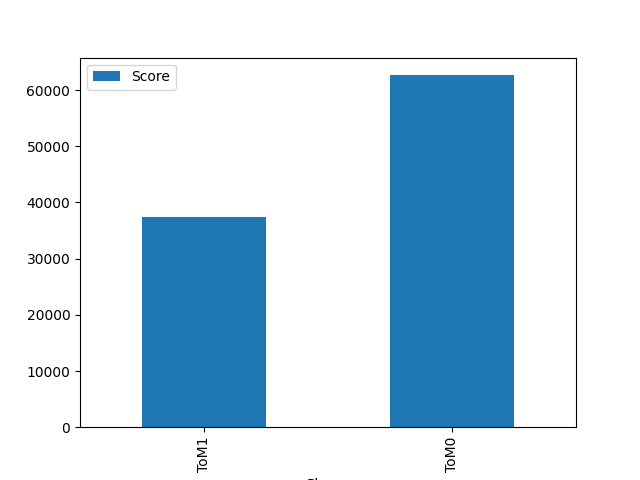
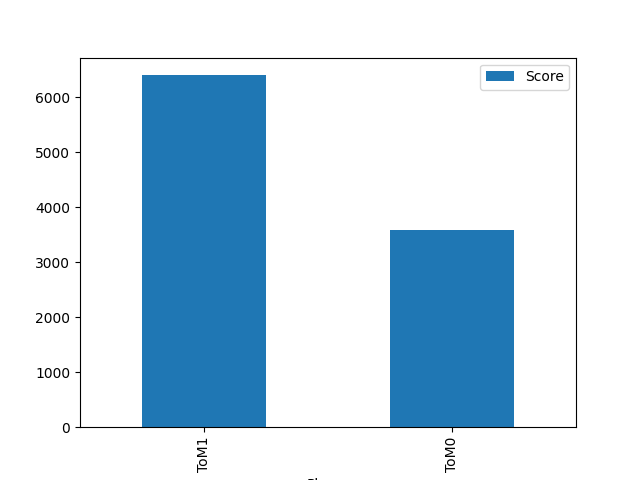
added interpretative tom

diff --git a/src/player.py b/src/player.py
@@ -2,13 +2,20 @@ import random
 from typing import List, Tuple
 from .game import Dice, Bid
 
+
 class Player:
     """Represents a player in the game. This is the base class for all players."""
+
     def __init__(self, name: str, num_dice: int):
         self.name = name
         self.num_dice = num_dice
         self.dice = Dice(num_dice)
         self.current_bid = None
+        self.players = []
+
+    def set_players(self, players: List["Player"]):
+        """Sets the list of players in the game."""
+        self.players = players
 
     def roll_dice(self):
         """Rolls the dice for this player."""
@@ -33,7 +40,6 @@ class Player:
         raise NotImplementedError("This method should be implemented by subclasses.")
 
 
-
 class ZeroOrderPlayer(Player):
     def __init__(self, name: str, num_dice: int):
         super().__init__(name, num_dice)
@@ -55,20 +61,24 @@ class ZeroOrderPlayer(Player):
         """Zero-order agent challenges based on statistical likelihood."""
         # Calculate the number of dice that are unseen to this player
         unseen_dice = total_players * self.dice.num_dice - len(self.dice.values)
-        
+
         # Estimate how many of the unseen dice are likely to be the same as the current bid face
         # Assuming fair dice rolls, the likelihood of seeing a specific face is roughly 1/6.
-        estimated_count = unseen_dice / 6  # Expected number of matching faces in unseen dice
+        estimated_count = (
+            unseen_dice / 6
+        )  # Expected number of matching faces in unseen dice
 
         # Count the agent's own dice that match the current bid face (including wild ones)
-        total_count = self.dice.values.count(current_bid.face) + self.dice.values.count(1)  # Include wild ones
+        total_count = self.dice.values.count(current_bid.face) + self.dice.values.count(
+            1
+        )  # Include wild ones
 
         total_count += estimated_count
 
         # If the total count (including estimates for unseen dice) is less than the bid count, challenge
         return total_count < current_bid.count
 
-# Work In Progress
+
 class FirstOrderPlayer(Player):
     def __init__(self, name: str, num_dice: int):
         super().__init__(name, num_dice)
@@ -81,7 +91,7 @@ class FirstOrderPlayer(Player):
         """Makes a bid based on first-order ToM logic."""
         if current_bid is None:
             return Bid(1, random.randint(2, 6))  # Start with a random low bid
-        
+
         total_dice = sum(player.num_dice for player in self.players)
         predicted_count = current_bid.count + 1
         predicted_face = current_bid.face
@@ -91,7 +101,12 @@ class FirstOrderPlayer(Player):
         wild_probability = (1 / 6) * total_dice
         total_probability = face_probability + wild_probability
 
-        if total_probability < current_bid.count:
+        # Interpret the opponent's bid based on the bid count (interpretive ToM)
+        # If the opponent made a high bid, we infer they might have many matching dice
+        interpretation_factor = self.interpret_opponent_bid(current_bid)
+
+        # Combine predictive and interpretive logic
+        if total_probability + interpretation_factor < current_bid.count:
             predicted_count = current_bid.count + 1
             predicted_face = current_bid.face
         else:
@@ -99,8 +114,19 @@ class FirstOrderPlayer(Player):
 
         return Bid(predicted_count, predicted_face)
 
+    def interpret_opponent_bid(self, current_bid: Bid) -> int:
+        """Interpret the opponent's current bid. High counts suggest many matching dice or bluffing."""
+        if (
+            current_bid.count >= 6
+        ):  # If the opponent bid is high, they might have matching dice
+            return 2  # A small bonus to interpret a stronger hand (may assume they have matching dice)
+        elif current_bid.count <= 2:  # Low count might indicate they don't have much
+            return -1  # Penalty to interpret a weak hand
+        else:
+            return 0  # Neutral interpretation
+
     def decide_challenge(self, current_bid: Bid, total_players: int) -> bool:
-        """First-order agent decides to challenge based on predictions of the opponent's behavior."""
+        """First-order agent decides to challenge based on predictions and interpretation of opponent's behavior."""
         total_dice_count = 0
         for player in self.players:
             if player.name != self.name:
@@ -112,6 +138,11 @@ class FirstOrderPlayer(Player):
         wild_probability = (1 / 6) * total_dice
         total_probability = face_probability + wild_probability
 
+        # Add interpretive factor to account for the opponent's likely hand
+        interpretation_factor = self.interpret_opponent_bid(current_bid)
+        total_probability += interpretation_factor
+
+        # Challenge if total predicted dice (with interpretation) are less than the bid
         if total_probability < current_bid.count:
             return True  # Challenge if the prediction is not sufficient
 
@@ -120,6 +151,7 @@ class FirstOrderPlayer(Player):
 
 class HumanPlayer(Player):
     """Represents a human player in the game."""
+
     def make_bid(self, current_bid: Bid) -> Bid:
         """Prompts the human player to make a bid."""
         print(f"Current bid: {current_bid}" if current_bid else "No current bid.")
@@ -138,9 +170,11 @@ class HumanPlayer(Player):
         """Asks the human player whether they want to challenge."""
         print(f"Current bid: {current_bid}")
         while True:
-            choice = input("Do you want to challenge the bid? (yes/no): ").strip().lower()
-            if choice in ['yes', 'y']:
+            choice = (
+                input("Do you want to challenge the bid? (yes/no): ").strip().lower()
+            )
+            if choice in ["yes", "y"]:
                 return True
-            if choice in ['no', 'n']:
+            if choice in ["no", "n"]:
                 return False
             print("Invalid input. Please enter 'yes' or 'no'.")

diff --git a/src/wildperudo.py b/src/wildperudo.py
@@ -2,8 +2,10 @@ from typing import List
 from .player import Player, HumanPlayer, FirstOrderPlayer
 from typing import Tuple
 
+
 class WildPerudoGame:
     """Main game logic for Wild Perudo."""
+
     def __init__(self, players: List[Player], callback=None, **kwargs):
         self.players = players
         self.current_bid = None
@@ -13,9 +15,8 @@ class WildPerudoGame:
 
         # Share the list of players with each player
         for player in players:
-            if isinstance(player, FirstOrderPlayer):  # Or any player type that needs this information
-                player.set_players(self.players)
-    
+            player.set_players(self.players)
+
     def play_turn(self):
         """Plays a single turn of the game."""
         player = self.players[self.current_player_idx]
@@ -48,7 +49,6 @@ class WildPerudoGame:
         # Move to the next player for the next turn in the round
         self.current_player_idx = (self.current_player_idx + 1) % len(self.players)
 
-
     def resolve_challenge(self, challenger: Player):
         """Resolves a challenge."""
         print("Revealing dice...")
@@ -69,13 +69,14 @@ class WildPerudoGame:
             print(f"The bid was correct! The bidder ({bidder.name}) wins this round!")
             self.scores[bidder.name] += 1
         else:
-            print(f"The bid was incorrect! The challenger ({challenger.name}) wins this round!")
+            print(
+                f"The bid was incorrect! The challenger ({challenger.name}) wins this round!"
+            )
             self.scores[challenger.name] += 1
 
         # Reset the bid and indicate the round is over
         self.current_bid = None
         return True
-
 
     def get_current_bidder(self) -> Player:
         """Returns the player who made the current bid."""
@@ -114,6 +115,5 @@ class WildPerudoGame:
             print("No winner! It's a tie!")
         else:
             print(f"The winner is {winner} with {self.scores[winner]} points!")
-        
-        return (winner, loser)
 
+        return (winner, loser)

diff --git a/src/game.py b/src/game.py
@@ -3,6 +3,7 @@ import random
 
 class Dice:
     """Represents the dice a player holds."""
+
     def __init__(self, num_dice: int):
         self.num_dice = num_dice
         self.values = []
@@ -15,9 +16,11 @@ class Dice:
 
 class Bid:
     """Represents a bid in Wild Perudo."""
-    def __init__(self, count: int, face: int):
+
+    def __init__(self, count: int, face: int, bidder_index: int = None):
         self.count = count
         self.face = face
+        self.bidder_index = bidder_index
 
     def __repr__(self):
         return f"{self.count} {self.face}s"
@@ -43,5 +46,3 @@ class Bid:
         if self.count == current_bid.count and self.face > current_bid.face:
             return True
         return False
-
-

diff --git a/main.py b/main.py
@@ -8,14 +8,13 @@ def main():
     print("Welcome to Wild Perudo!")
 
     players: List[Player] = [
-        HumanPlayer(name="Human Player", num_dice=5),
+        FirstOrderPlayer(name="ToM1", num_dice=5),
         ZeroOrderPlayer(name="ToM0", num_dice=5),
-        
     ]
 
     game = WildPerudoGame(players)
 
-    winner, loser = game.start_game(max_rounds=100000)
+    winner, loser = game.start_game(max_rounds=10000)
 
     data = DataCollector(game.scores.items())
     data.save_game_csv("data/results.csv")
